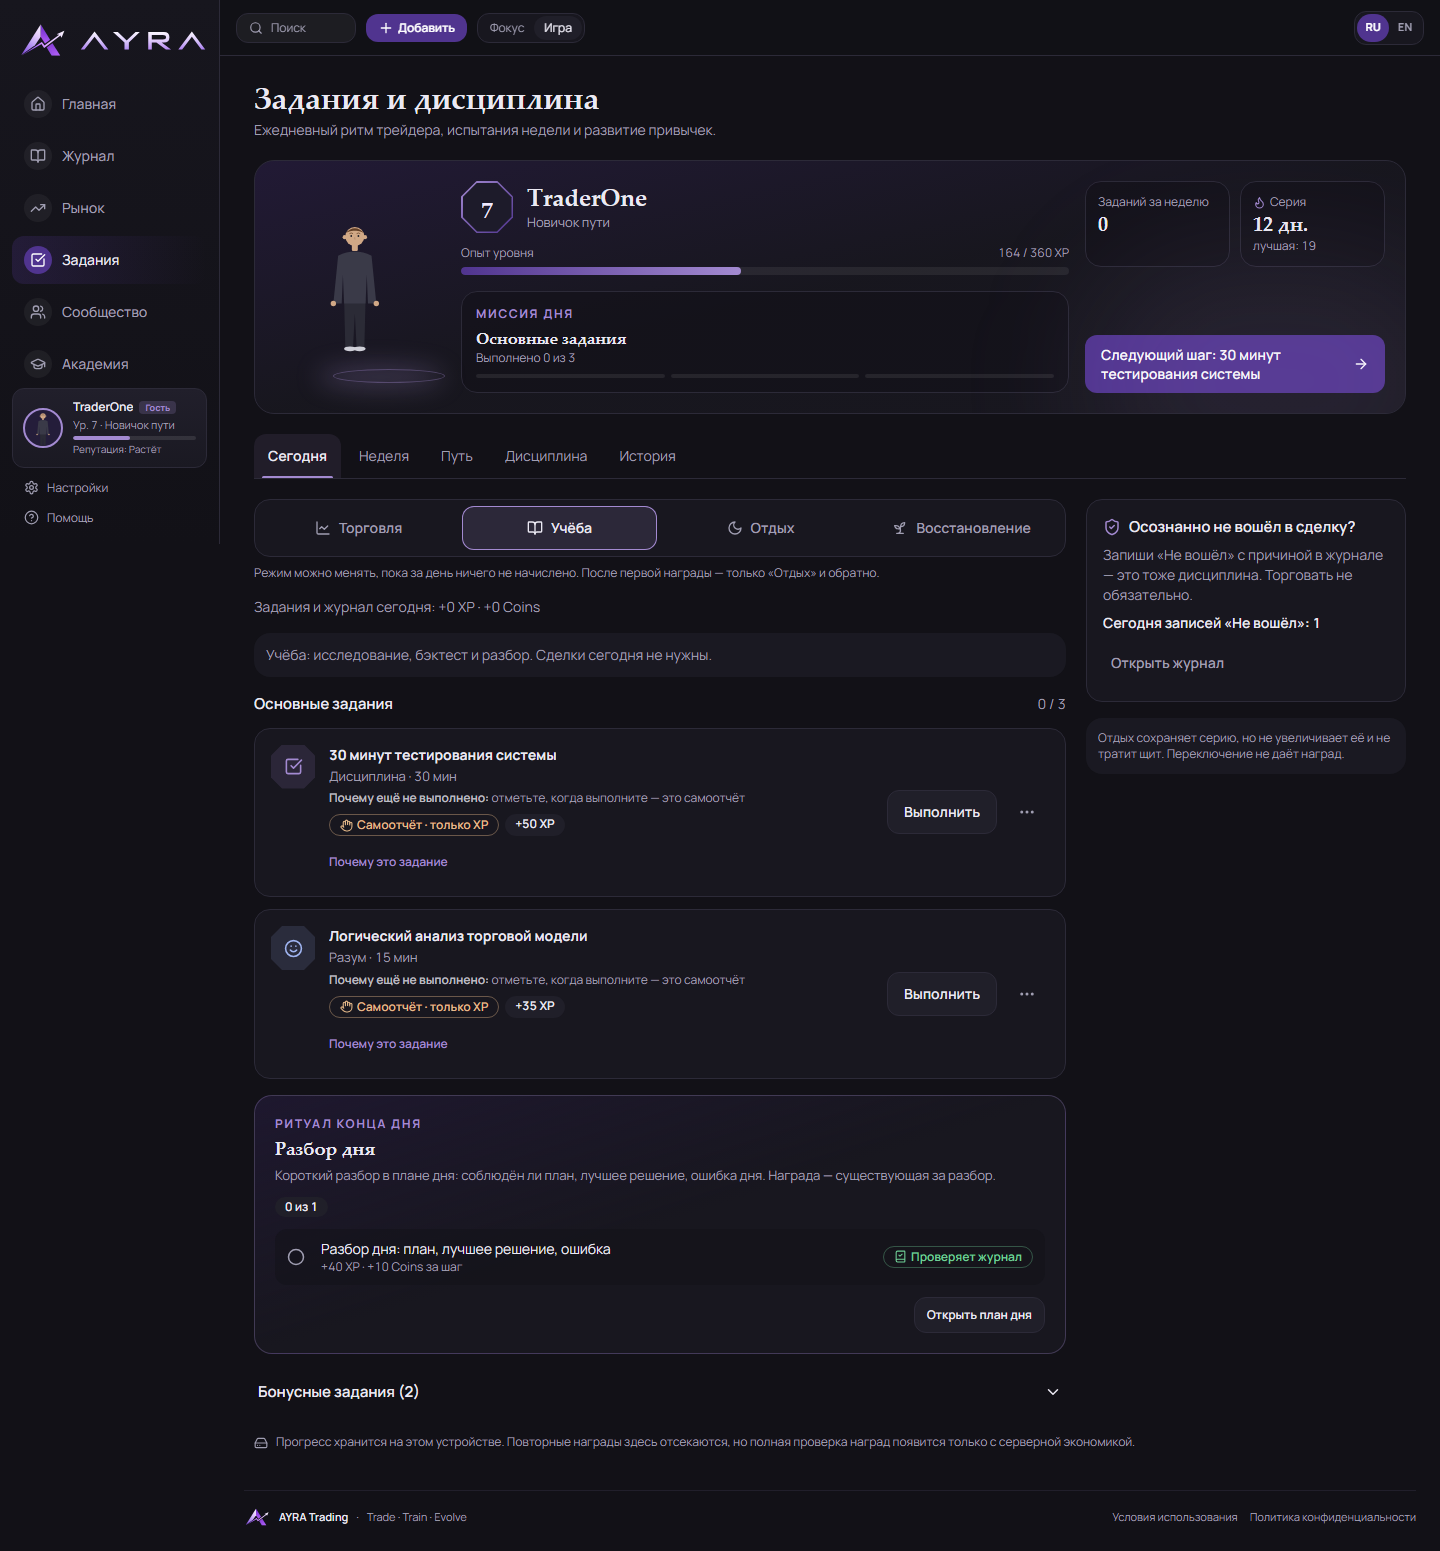
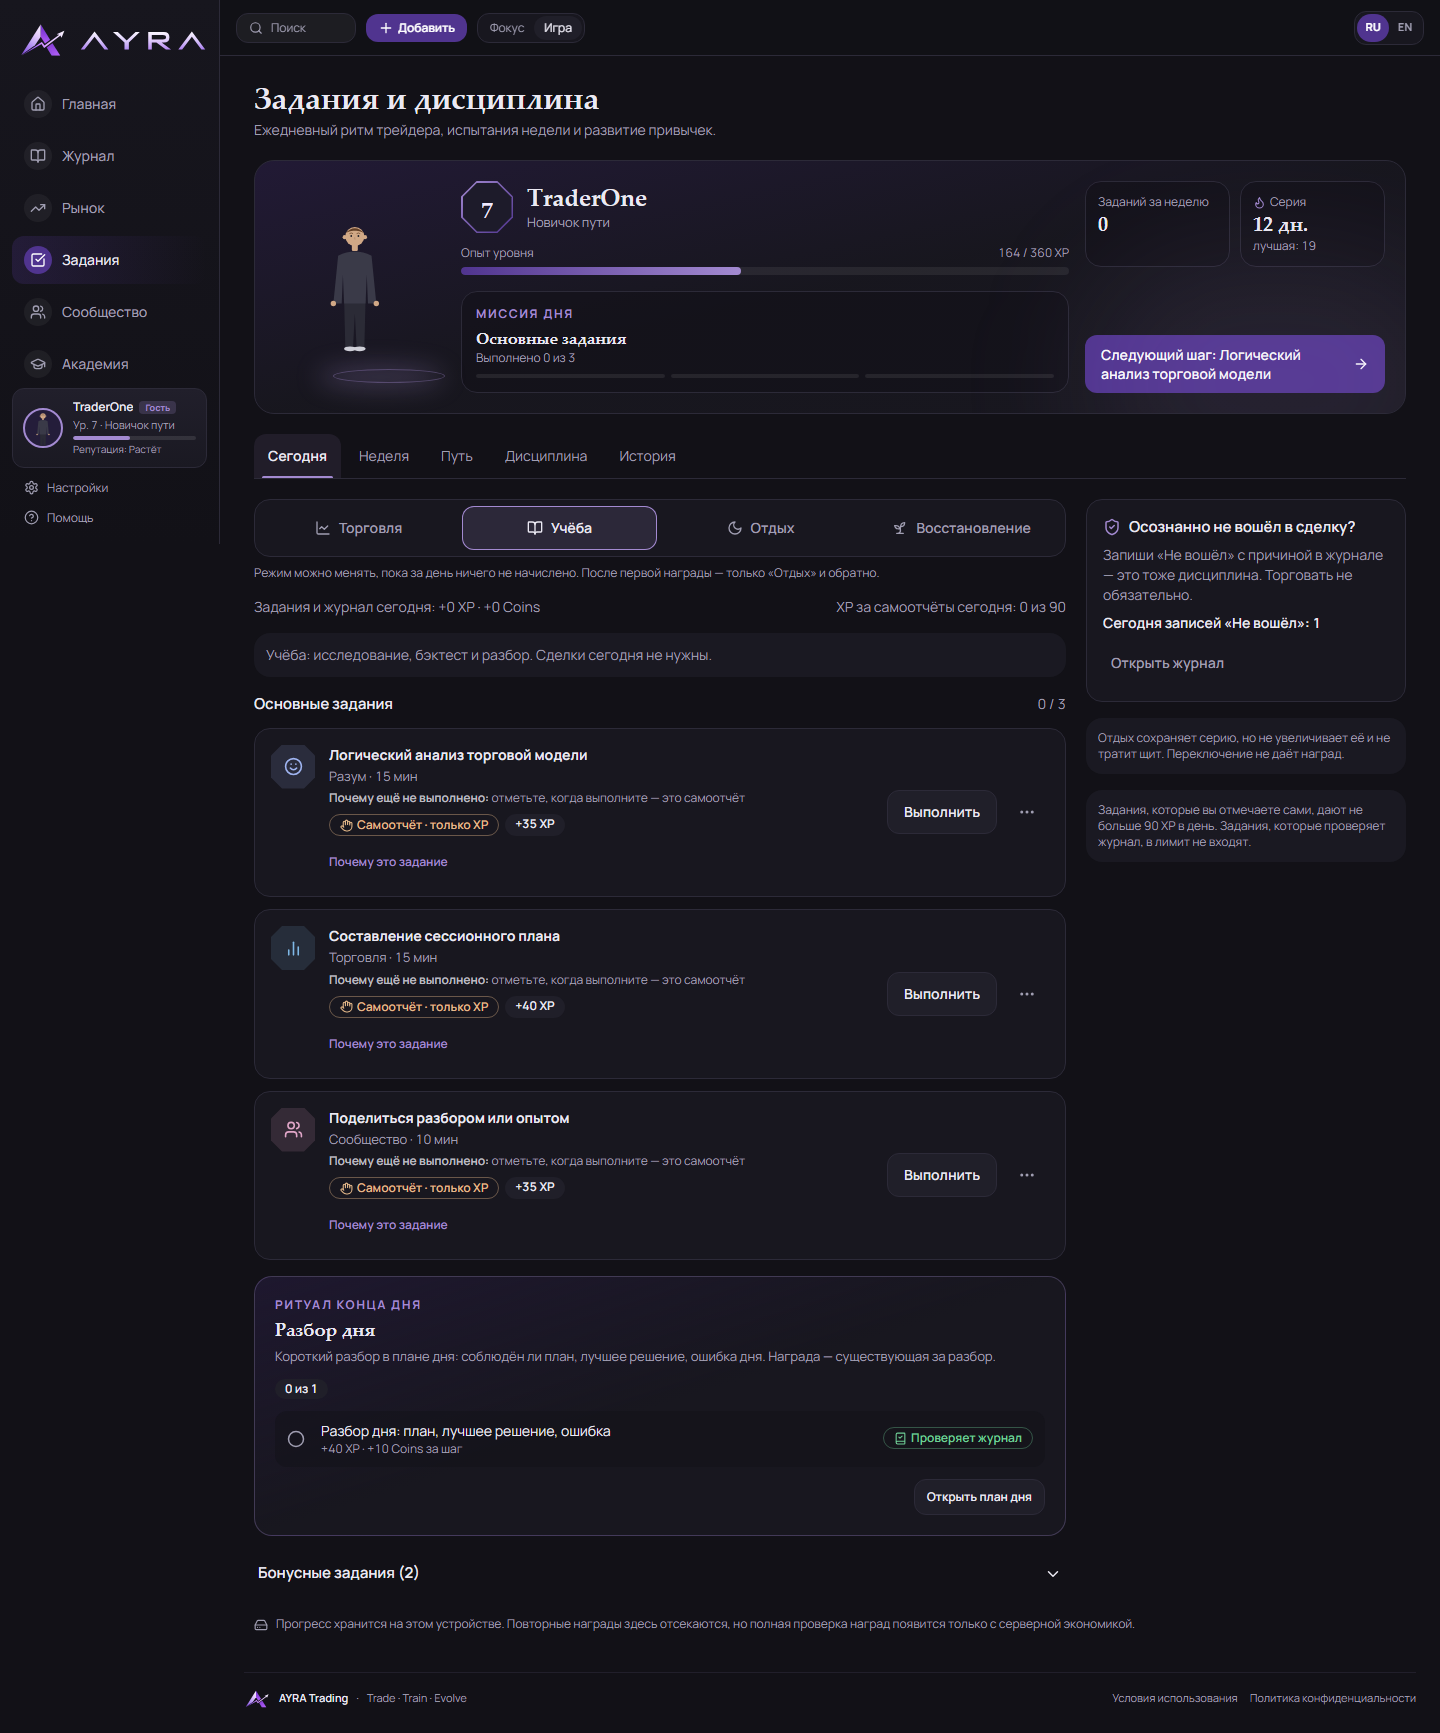
Quests Q2: cap self-report XP at 90 a day (owner decision)
Self-reported quests still count for the day and the streak; XP above
GAME_CONFIG.SELF_REPORT_DAILY_XP_CAP is cut, journal-checked quests are
not counted. Today tab shows the progress, the toast says when the cap
is reached. Economy simulation and docs updated with the new numbers.

diff --git a/lib/quest-engine.test.ts b/lib/quest-engine.test.ts
@@ -4,6 +4,8 @@ import {
   INITIAL_GAME_STATE,
   checkAndApplyDateResets,
   completeQuest,
+  completeSelfReportQuest,
+  selfReportXpOn,
   replaceQuest,
   setDayMode,
   setTradingDays,
@@ -157,6 +159,43 @@ describe("day modes", () => {
     if (r.success) expect(poolForMode("recovery").map((q) => q.id)).toContain(r.replacementId);
     const set = getTodaysQuests("2026-11-12", r.state.questReplacements, r.state.questDay);
     expect(set.core.length + set.bonus.length).toBe(shown.length);
+  });
+});
+
+describe("daily cap on self-report XP (owner decision 2026-11-13: 90)", () => {
+  const now = at("2026-11-12T09:00:00Z");
+  it("gives XP up to the cap; over it the quest is done with the XP left (possibly 0); never coins", () => {
+    let s = fresh({ lastQuestDate: "2026-11-11" });
+    const coins = s.coins;
+    const a = completeSelfReportQuest(s, "q_backtest", "a", "Discipline", 50, now);
+    expect(a).toMatchObject({ xpGiven: 50, capped: false });
+    s = a.state;
+    const b = completeSelfReportQuest(s, "q_gym", "b", "Physical", 45, now);
+    expect(b).toMatchObject({ xpGiven: 40, capped: true });
+    s = b.state;
+    const c = completeSelfReportQuest(s, "q_walk", "c", "Physical", 30, now);
+    expect(c).toMatchObject({ xpGiven: 0, capped: true });
+    expect(c.state.completedQuestsToday.q_walk).toBe(true); // the day still counts
+    expect(selfReportXpOn(c.state, "2026-11-12")).toBe(90);
+    expect(c.state.coins).toBe(coins);
+  });
+
+  it("a double click adds nothing; journal-checked quests are not counted; the next day starts again", () => {
+    let s = fresh({ lastQuestDate: "2026-11-11" });
+    s = completeQuest(s, "q_bias", "Bias", "Trading", 40, 10, now).state; // journal-checked: outside the cap
+    s = completeSelfReportQuest(s, "q_backtest", "a", "Discipline", 50, now).state;
+    const again = completeSelfReportQuest(s, "q_backtest", "a", "Discipline", 50, now);
+    expect(again.xpGiven).toBe(0);
+    expect(selfReportXpOn(again.state, "2026-11-12")).toBe(50);
+    const next = completeSelfReportQuest(again.state, "q_gym", "b", "Physical", 45, at("2026-11-13T09:00:00Z"));
+    expect(next.xpGiven).toBe(45);
+  });
+
+  it("journal-checked quests cannot be ticked through the self-report path", () => {
+    const s = fresh({ lastQuestDate: "2026-11-11" });
+    const r = completeSelfReportQuest(s, "q_bias", "Bias", "Trading", 40, now);
+    expect(r.xpGiven).toBe(0);
+    expect(r.state.completedQuestsToday.q_bias).toBeUndefined();
   });
 });
 

diff --git a/components/quests/TodayTab.tsx b/components/quests/TodayTab.tsx
@@ -7,6 +7,7 @@ import { useApp } from "@/lib/context";
 import { useGame } from "@/lib/game-context";
 import { formatNumber, formatString } from "@/lib/i18n";
 import { GAME_CONFIG } from "@/lib/game-config";
+import { selfReportXpOn } from "@/lib/game";
 import { QUEST_POOL, type QuestTemplate } from "@/lib/quests";
 import { endOfDayRitual, morningProtocol, noTradesOn, reasonFor, type DayMode, type JournalSnapshot } from "@/lib/quest-engine";
 import { buttonClasses } from "@/components/ui/Button";
@@ -84,9 +85,14 @@ export function TodayTab({ core, bonus, replacedFrom, earned, busyId, mode, mode
     <div className="grid items-start gap-5 lg:grid-cols-[minmax(0,1fr)_320px]">
       <div className="min-w-0 space-y-4">
         <ModeSwitch mode={mode} locked={modeLocked} busy={busyId === "mode"} backMode={gameState.questDay?.modeBeforeRest ?? "trading"} onChange={onMode} />
-        <p className="text-sm text-mu" data-testid="today-earned">
-          {formatString(t.earned, { xp: formatNumber(lang, earned.xp), coins: formatNumber(lang, earned.coins) })}
-        </p>
+        <div className="flex flex-wrap items-baseline justify-between gap-x-4 gap-y-1">
+          <p className="text-sm text-mu" data-testid="today-earned">
+            {formatString(t.earned, { xp: formatNumber(lang, earned.xp), coins: formatNumber(lang, earned.coins) })}
+          </p>
+          <p className="text-sm text-mu" data-testid="self-cap" title={formatString(q2.selfCap.note, { cap: GAME_CONFIG.SELF_REPORT_DAILY_XP_CAP })}>
+            {formatString(q2.selfCap.progress, { xp: selfReportXpOn(gameState, gameDay), cap: GAME_CONFIG.SELF_REPORT_DAILY_XP_CAP })}
+          </p>
+        </div>
 
         {mode === "rest" ? (
           <div className="rounded-lg border border-line bg-s1 px-5 py-10 text-center" data-testid="rest-panel">
@@ -150,6 +156,7 @@ export function TodayTab({ core, bonus, replacedFrom, earned, busyId, mode, mode
           </Link>
         </div>
         <p className="rounded-lg bg-s2/60 p-3 text-xs text-mu">{t.restHint}</p>
+        <p className="rounded-lg bg-s2/60 p-3 text-xs text-mu">{formatString(q2.selfCap.note, { cap: GAME_CONFIG.SELF_REPORT_DAILY_XP_CAP })}</p>
       </aside>
     </div>
   );

diff --git a/scripts/econ-sim.ts b/scripts/econ-sim.ts
@@ -1,10 +1,10 @@
 /**
- * Prints the economy simulation (lib/econ-sim.ts): 3 kinds of players × 90 days on the real game rules, plus what
- * possible daily caps on self-report XP would change. The caps are options for the owner only — nothing applies them.
+ * Prints the economy simulation (lib/econ-sim.ts): 3 kinds of players × 90 days on the real game rules, including the
+ * approved daily cap on self-report XP (GAME_CONFIG.SELF_REPORT_DAILY_XP_CAP).
  *
  * Run: npx vite-node scripts/econ-sim.ts [days]
  */
-import { simulate, withSelfCap, type Profile } from "../lib/econ-sim";
+import { simulate, type Profile } from "../lib/econ-sim";
 import { GAME_CONFIG } from "../lib/game-config";
 
 const days = Number(process.argv[2]) || 90;
@@ -12,18 +12,13 @@ const profiles: Profile[] = ["honest", "active", "farmer"];
 const results = profiles.map((p) => simulate(p, days));
 
 const pad = (s: string | number, n: number) => String(s).padStart(n);
-console.log(`Economy simulation: ${days} days, current rules (GAME_CONFIG.DAILY_COIN_CAP = ${GAME_CONFIG.DAILY_COIN_CAP})\n`);
+console.log(
+  `Economy simulation: ${days} days, current rules (DAILY_COIN_CAP = ${GAME_CONFIG.DAILY_COIN_CAP}, SELF_REPORT_DAILY_XP_CAP = ${GAME_CONFIG.SELF_REPORT_DAILY_XP_CAP})\n`
+);
 console.log("profile   total XP   XP/day   self-report XP  share   coins  coins/day  level  max self XP/day");
 for (const r of results) {
   const maxSelf = Math.max(...r.log.map((d) => d.selfXp));
   console.log(
     `${r.profile.padEnd(8)} ${pad(r.totalXp, 9)} ${pad((r.totalXp / days).toFixed(0), 8)} ${pad(r.selfXp, 15)} ${pad(((r.selfXp / Math.max(1, r.totalXp)) * 100).toFixed(0) + "%", 6)} ${pad(r.coins, 7)} ${pad((r.coins / days).toFixed(1), 10)} ${pad(r.level, 6)} ${pad(maxSelf, 16)}`
   );
-}
-
-console.log("\nOptions for a daily cap on self-report XP (NOT applied — for the owner's decision):");
-console.log("cap/day     honest XP   active XP   farmer XP   farmer − honest");
-for (const cap of [null, 150, 120, 90, 60]) {
-  const v = results.map((r) => withSelfCap(r, cap).totalXp);
-  console.log(`${String(cap ?? "none").padEnd(9)} ${pad(v[0], 11)} ${pad(v[1], 11)} ${pad(v[2], 11)} ${pad(v[2] - v[0], 17)}`);
 }

diff --git a/e2e/quests-engine.spec.ts b/e2e/quests-engine.spec.ts
@@ -135,6 +135,22 @@ test.describe("Quest Engine (Q2)", () => {
     await expect(page.getByTestId("objective-tradeLimit")).toHaveAttribute("data-state", "insufficientData");
   });
 
+  test("the daily cap on self-report XP (90): the rest of it is given, then the quest still counts with 0 XP", async ({ context, page }) => {
+    const earlier = { questId: "q_earlier", questTitle: "Earlier", category: "Mental", xp: 80, coins: 0, completedAt: today, at: `${today}T06:00:00.000Z` };
+    await seedGame(context, baseGame({ lastQuestDate: today, history: [earlier], completedQuestsToday: { q_earlier: true } }), { ayra_journal_v1: journal() });
+    await page.goto("/quests");
+    await expect(page.getByTestId("self-cap")).toHaveText("XP за самоотчёты сегодня: 80 из 90");
+    await expandBonus(page);
+    const card = page.locator('[data-testid^="quest-card-"]').filter({ has: page.getByTestId("quest-badge-self") }).filter({ hasNot: page.getByTestId("quest-done") }).first();
+    const id = ((await card.getAttribute("data-testid")) || "").replace("quest-card-", "");
+    const xp0 = totalXp(await game(page));
+    await card.getByRole("button", { name: "Выполнить" }).click();
+    await expect(page.getByText("Задание отмечено: +10 XP — дневной лимит XP за самоотчёты (90) достигнут")).toBeVisible();
+    await expect(page.getByTestId(`quest-card-${id}`).getByTestId("quest-done")).toBeVisible();
+    expect(totalXp(await game(page)) - xp0).toBe(10);
+    await expect(page.getByTestId("self-cap")).toHaveText("XP за самоотчёты сегодня: 90 из 90");
+  });
+
   test("two tabs: a reward in one tab locks the mode change in the other (checked on fresh data)", async ({ context }) => {
     await seedGame(context, baseGame({ lastQuestDate: yesterday }), { ayra_journal_v1: journal() });
     const a = await context.newPage();

diff --git a/lib/game-context.tsx b/lib/game-context.tsx
@@ -5,7 +5,7 @@ import {
   GameState,
   INITIAL_GAME_STATE,
   checkAndApplyDateResets,
-  completeQuest as completeQuestLogic,
+  completeSelfReportQuest,
   claimDailyReward as claimDailyRewardLogic,
   changePlan as changePlanLogic,
   getCharacterStatus,
@@ -177,6 +177,8 @@ export interface QuestCompletion {
   completed: boolean;
   /** The change could not be saved: nothing was given (try again). */
   saveFailed?: boolean;
+  /** Less XP than the quest's own value: the daily cap on self-report XP was reached. */
+  capped?: boolean;
   xp: number;
   leveledUp: boolean;
   newLevel?: number;
@@ -509,12 +511,13 @@ export function GameProvider({ children }: { children: React.ReactNode }) {
   const questChange = useCallback(
     (questId: string, title: string, category: string, xp?: number) =>
       (fresh: GameState): Change<GameState, QuestCompletion> => {
-        const res = completeQuestLogic(fresh, questId, title, category, xp, 0, new Date());
+        // the daily cap on self-report XP is applied here, in the game rules (lib/game.ts), on fresh data
+        const res = completeSelfReportQuest(fresh, questId, title, category, xp ?? 0, new Date());
         const completed = res.state.completedQuestsToday[questId] === true && !fresh.completedQuestsToday[questId];
         if (!completed) return { state: fresh, result: NOT_COMPLETED };
         return {
           state: res.state,
-          result: { completed, xp: res.state.history[0]?.xp ?? 0, leveledUp: res.leveledUp, newLevel: res.newLevel, newlyUnlocked: res.newlyUnlocked },
+          result: { completed, xp: res.xpGiven, capped: res.capped, leveledUp: res.leveledUp, newLevel: res.newLevel, newlyUnlocked: res.newlyUnlocked },
         };
       },
     []

diff --git a/lib/game.ts b/lib/game.ts
@@ -1289,6 +1289,33 @@ export function completeQuest(
   };
 }
 
+/** XP given today for self-reported quests (from the quest history of the game day). */
+export function selfReportXpOn(state: Pick<GameState, "history">, dayKey: string): number {
+  return (state.history || []).reduce((n, h) => (h.completedAt === dayKey && !APP_CLOSED_QUESTS.has(h.questId) ? n + (h.xp || 0) : n), 0);
+}
+
+/**
+ * A quest the person ticks (self-report): done as before, but its XP counts only up to the daily cap for self-reports
+ * (GAME_CONFIG.SELF_REPORT_DAILY_XP_CAP, owner decision 2026-11-13). Over the cap the quest is still done (the day and
+ * the streak count), with the XP that is left (possibly 0). Never coins. Journal-checked quests are not affected.
+ */
+export function completeSelfReportQuest(
+  state: GameState,
+  questId: string,
+  questTitle: string,
+  category: string,
+  xpAmount: number,
+  currentDate: Date = new Date()
+): ReturnType<typeof completeQuest> & { xpGiven: number; capped: boolean } {
+  const fresh = checkAndApplyDateResets(state, currentDate);
+  if (APP_CLOSED_QUESTS.has(questId)) return { state: fresh, leveledUp: false, newlyUnlocked: [], xpGiven: 0, capped: false };
+  const today = gameDayKey(fresh, currentDate);
+  const left = Math.max(0, GAME_CONFIG.SELF_REPORT_DAILY_XP_CAP - selfReportXpOn(fresh, today));
+  const xp = Math.max(0, Math.min(xpAmount, left));
+  const res = completeQuest(fresh, questId, questTitle, category, xp, 0, currentDate);
+  return { ...res, xpGiven: res.state.completedQuestsToday[questId] && !fresh.completedQuestsToday[questId] ? xp : 0, capped: xp < xpAmount };
+}
+
 export function passQuest(
   state: GameState,
   questId: string,

diff --git a/lib/econ-sim.ts b/lib/econ-sim.ts
@@ -1,7 +1,7 @@
 /**
  * Economy simulation (docs/quests-2.0-plan.md, 5.3; Q2). Runs the real game rules of lib/game.ts — no separate model —
- * for three kinds of players over N days and reports XP, coins and where the XP came from. Self-report XP caps are only
- * evaluated here as options for the owner; nothing in the game applies them (no cap is approved yet).
+ * for three kinds of players over N days and reports XP, coins and where the XP came from. The approved daily cap on
+ * self-report XP (GAME_CONFIG.SELF_REPORT_DAILY_XP_CAP, 2026-11-13) is part of those rules.
  *
  * Run: npx vite-node scripts/econ-sim.ts
  */
@@ -9,7 +9,7 @@ import {
   INITIAL_GAME_STATE,
   checkAndApplyDateResets,
   claimDailyReward,
-  completeQuest,
+  completeSelfReportQuest,
   evaluatePlanQuestClosure,
   grantFirstAction,
   recordLoggedTrade,
@@ -74,9 +74,9 @@ function tickSelf(s: GameState, day: string, n: number | "all", time: string): {
   const quests = shownSelf(s, day);
   for (const q of n === "all" ? quests : quests.slice(0, n)) {
     const before = totalXpOf(s);
-    s = completeQuest(s, q.id, q.id, q.category, q.xpReward, 0, at(day, time)).state;
+    s = completeSelfReportQuest(s, q.id, q.id, q.category, q.xpReward, at(day, time)).state;
     // a second tab / double click: the same quest again (blocked by the rules)
-    s = completeQuest(s, q.id, q.id, q.category, q.xpReward, 0, at(day, time)).state;
+    s = completeSelfReportQuest(s, q.id, q.id, q.category, q.xpReward, at(day, time)).state;
     xp += totalXpOf(s) - before;
   }
   return { s, xp };

diff --git a/lib/econ-sim.test.ts b/lib/econ-sim.test.ts
@@ -2,7 +2,7 @@ import { describe, it, expect } from "vitest";
 import { simulate, withSelfCap } from "./econ-sim";
 import { GAME_CONFIG } from "./game-config";
 
-// Properties of the CURRENT rules (no new cap is applied — docs/quests-2.0-plan.md, 5.3). If a future change breaks one
+// Properties of the CURRENT rules, including the approved self-report XP cap (docs/quests-2.0-plan.md). If a future change breaks one
 // of them, the economy changed and needs the owner's decision.
 describe("economy simulation on the real game rules", () => {
   const days = 28;
@@ -15,6 +15,10 @@ describe("economy simulation on the real game rules", () => {
     for (const r of [honest, active, farmer]) {
       for (const d of r.log) expect(d.coins).toBeLessThanOrEqual(GAME_CONFIG.DAILY_COIN_CAP + firstActions);
     }
+  });
+
+  it("self-report XP never goes over the approved daily cap", () => {
+    for (const r of [honest, active, farmer]) for (const d of r.log) expect(d.selfXp).toBeLessThanOrEqual(GAME_CONFIG.SELF_REPORT_DAILY_XP_CAP);
   });
 
   it("the farmer gets no more coins than a very active honest player", () => {

diff --git a/lib/i18n/dictionaries/ru.ts b/lib/i18n/dictionaries/ru.ts
@@ -2470,6 +2470,11 @@ export const ru = {
         studyNote: "Учёба: исследование, бэктест и разбор. Сделки сегодня не нужны.",
       },
       dayShort: { done: "{n}", rest: "отд.", shield: "щит", none: "0", noData: "—", today: "сег.", future: "·", beforeStart: "·" },
+      selfCap: {
+        progress: "XP за самоотчёты сегодня: {xp} из {cap}",
+        capped: "Задание отмечено: +{xp} XP — дневной лимит XP за самоотчёты ({cap}) достигнут",
+        note: "Задания, которые вы отмечаете сами, дают не больше {cap} XP в день. Задания, которые проверяет журнал, в лимит не входят.",
+      },
       reasonLabel: "Почему ещё не выполнено:",
       reasons: {
         selfReport: "отметьте, когда выполните — это самоотчёт",

diff --git a/lib/i18n/dictionaries/en.ts b/lib/i18n/dictionaries/en.ts
@@ -2472,6 +2472,11 @@ export const en: Dictionary = {
         studyNote: "Study: research, backtesting and review. No trades needed today.",
       },
       dayShort: { done: "{n}", rest: "rest", shield: "shd", none: "0", noData: "—", today: "now", future: "·", beforeStart: "·" },
+      selfCap: {
+        progress: "Self-report XP today: {xp} of {cap}",
+        capped: "Quest ticked: +{xp} XP — the daily self-report XP limit ({cap}) is reached",
+        note: "Quests you tick yourself give at most {cap} XP a day. Quests checked by the journal are not counted.",
+      },
       reasonLabel: "Why it is not done yet:",
       reasons: {
         selfReport: "tick it when you have done it — it is a self-report",

diff --git a/app/quests/page.tsx b/app/quests/page.tsx
@@ -79,6 +79,10 @@ export default function QuestsPage() {
         return;
       }
       if (!res.completed) return;
+      if (res.capped) {
+        showToast(formatString(t.q2.selfCap.capped, { xp: res.xp, cap: GAME_CONFIG.SELF_REPORT_DAILY_XP_CAP }));
+        return;
+      }
       showToast(res.leveledUp ? formatString(dict.chronicleEvents.levelUp, { level: res.newLevel ?? gameState.level }) : formatString(t.todayTab.rewardXp, { xp: res.xp }));
     });
 

diff --git a/lib/game-config.ts b/lib/game-config.ts
@@ -8,6 +8,8 @@ export const GAME_CONFIG = {
   QUEST_XP: 40,
   QUEST_COINS: 10,
   MAX_CUSTOM_GOALS: 5,
+  /** Most XP a day from quests the person ticks (self-reports); journal-checked quests are not counted (owner decision 2026-11-13). */
+  SELF_REPORT_DAILY_XP_CAP: 90,
   /** Longest personal goal title (owner decision 2026-11-12). */
   CUSTOM_GOAL_TITLE_MAX: 80,
 
